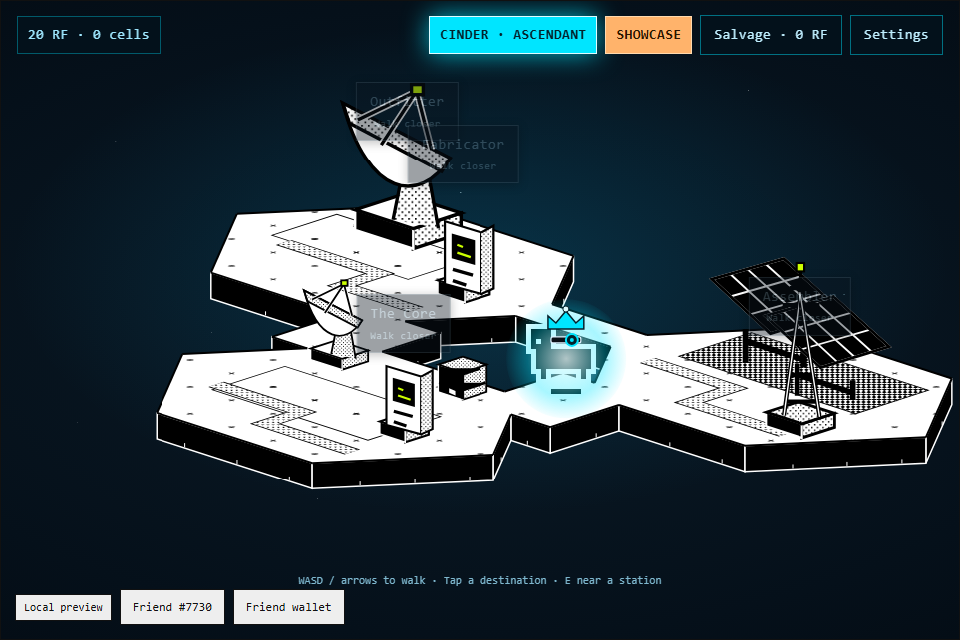
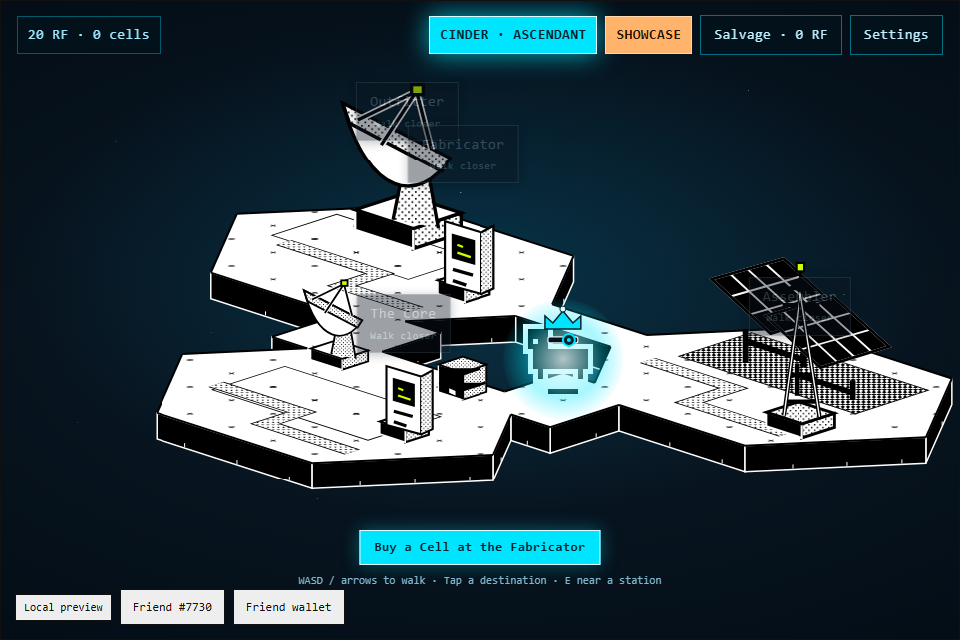
Guide the first minute with a contextual objective
Four stations across three platforms and nothing said where to start. A single line
now names the next useful action and follows the state rather than running a scripted
tutorial: buy a Cell, fabricate it, then ascend or shop.

Changed region(s): [[0.3438, 0.8125, 0.6562, 0.9062], [0.5312, 0.4688, 0.625, 0.5938]]

diff --git a/game/index.tsx b/game/index.tsx
@@ -284,6 +284,16 @@ export default function Ascension({ friendId, client, paused }: GameComponentPro
   const heldTotal = definition.outcomes.reduce((total, _item, index) => total + held(index), 0n);
   const salvage = definition.outcomes.reduce((total, item, index) => total + held(index) * item.reward, 0n);
 
+  /**
+   * The station spans three platforms and nothing says where to begin, so this names the
+   * next useful action. It follows the state rather than running a scripted tutorial.
+   */
+  const objective =
+    snapshot.consumables > 0n ? "Fabricate your Cell at the Assembler"
+    : heldTotal > 0n ? "Ascend at the Core, or shop at the Outfitter"
+    : snapshot.rfBalance >= definition.price ? "Buy a Cell at the Fabricator"
+    : "Out of RF — redeem salvage to keep playing";
+
   const fabricate = () =>
     act(async () => {
       const version = epoch.current;
@@ -452,6 +462,7 @@ export default function Ascension({ friendId, client, paused }: GameComponentPro
           <button type="button" onClick={() => navigate("inventory")}>Salvage · {rf(salvage)}</button>
           <button type="button" onClick={() => navigate("settings")}>Settings</button>
         </div>
+        <p className="asc-objective">{objective}</p>
         <p className="asc-hint">
           <span className="asc-desktop-hint">WASD / arrows to walk · Tap a destination · E near a station</span>
           <span className="asc-mobile-hint">Tap to walk · E / tap near a station</span>

diff --git a/game/style.css b/game/style.css
@@ -156,3 +156,14 @@
   border-color:#ffd9ad !important;font-weight:700;letter-spacing:.06em;text-transform:uppercase}
 .asc-showcase{border-color:rgba(255,179,107,.45);background:rgba(255,179,107,.07)}
 .asc-showcase>strong{color:#ffb36b}
+
+/* Names the next useful action; the station spans three platforms with no obvious start. */
+.asc-objective{position:absolute;bottom:74px;left:50%;transform:translateX(-50%);
+  max-width:calc(100% - 32px);margin:0;padding:7px 14px;text-align:center;
+  font-size:13px;font-weight:700;letter-spacing:.03em;
+  color:#04222c;background:#00e5ff;border:1px solid #dffbff;
+  box-shadow:0 0 18px rgba(0,229,255,.35);pointer-events:none;z-index:4}
+
+@media(max-width:520px){
+  .asc-objective{bottom:66px;font-size:11px;padding:6px 10px}
+}

diff --git a/README.md b/README.md
@@ -79,6 +79,8 @@ node tools/loop-e2e.mts        # the whole loop: walk, buy, fabricate, reveal, c
 node tools/outcomes-e2e.mts    # forces a miss and a jackpot, checks both screens
 node tools/race-e2e.mts        # click-spam cannot duplicate commits or purchases
 node tools/fuzz-e2e.mts        # randomised session, invariants must hold throughout
+node tools/objective-e2e.mts   # the on-screen objective tracks the player through the loop
+node tools/showcase-e2e.mts    # the endgame is reachable and always flagged as granted
 node tools/keyboard-audit.mts  # canvas focus, WASD movement, tab order
 node tools/contrast-audit.mts  # text contrast and overflow at desktop and phone
 node tools/screenshots.mts     # regenerates docs/ images from the real runtime
